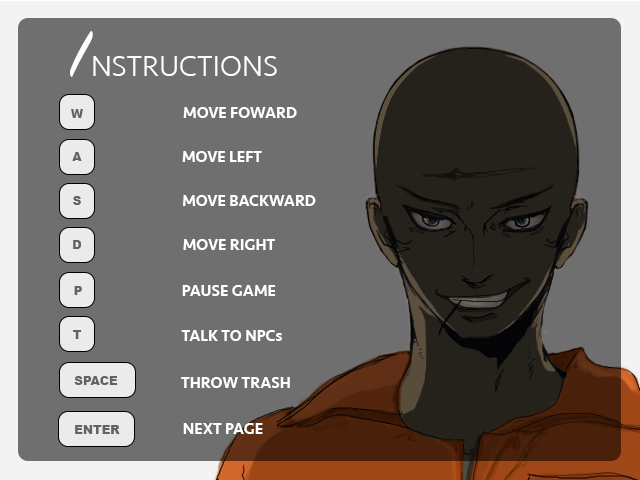
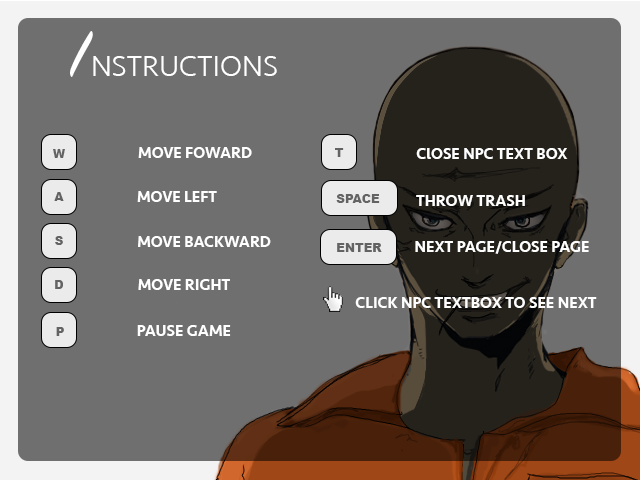
Editted instruction page and READ ME

diff --git a/Trashman/js/entities/PlayerEntity.js b/Trashman/js/entities/PlayerEntity.js
@@ -42,7 +42,7 @@ game.PlayerEntity = me.Entity.extend({
 
  		/*** MUSIC ***/
  		
- 		/*var track = me.audio.getCurrentTrack();
+ 		var track = me.audio.getCurrentTrack();
  		var name = me.game.currentLevel.name;
  		
  		if(name == "headquarter" || name == "headquartera" || name == "headquarterb" || name == "headquarterc"){
@@ -51,17 +51,17 @@ game.PlayerEntity = me.Entity.extend({
  			me.audio.playTrack("hq", true);
  		}
  		else if (name == "tocity1" || name == "todesert1" || name == "todesert2"
- 				|| name == "toantar1" || name == "toantar1b" || name == "tocity1b" || name == "todesert1b" || name == "todesert2b"){
+ 				|| name == "toantar1" ){
  			if (track == "forest") return;
  			me.audio.stopTrack();
  			me.audio.playTrack("forest", true);
  		}
- 		else if(name == "tocity2" || name == "tocity3" || name == "tocity2b" || name == "tocity3b"){
+ 		else if(name == "tocity2" || name == "tocity3" ){
  			if(track == "tocity") return;
  			me.audio.stopTrack();
  			me.audio.playTrack("tocity", true);
  		}
- 		else if(name == "city" || name == "cityb" || name == "cityPuzzle1"){
+ 		else if(name == "city"){
  			if(track == "city") return;
  			me.audio.stopTrack();
  			me.audio.playTrack("city", true);
@@ -71,7 +71,7 @@ game.PlayerEntity = me.Entity.extend({
  			me.audio.stopTrack();
  			me.audio.playTrack("ice", true);
  		}
- 		else if (name == "antarlevel1" || name == "antarlevel2"){
+ 		else if (name == "antarlevel1" || name == "antarlevel2" || name == "antarlevel3"){
  			if(track == "icelevel") return;
 			me.audio.stopTrack();
  			me.audio.playTrack("icelevel", true);
@@ -80,7 +80,7 @@ game.PlayerEntity = me.Entity.extend({
  			if(track == "desert") return;
  			me.audio.stopTrack();
  			me.audio.playTrack("desert", true);
- 		}*/
+ 		}
  		
     },
 

diff --git a/Trashman/js/screens/title.js b/Trashman/js/screens/title.js
@@ -15,9 +15,9 @@ game.TitleScreen = me.ScreenObject.extend({
       			me.state.change(me.state.GAMEOVER);
 	        }
     	});
-/*	 if(me.audio.getCurrentTrack() == "title") return;
+	 if(me.audio.getCurrentTrack() == "title") return;
  	 me.audio.stopTrack();
- 	 me.audio.playTrack("title", true);*/
+ 	 me.audio.playTrack("title", true);
   },
  
   /**    
@@ -68,8 +68,8 @@ game.instrucButton = me.GUI_Object.extend({
 	init:function (x, y){
     	var settings = {};
       	settings.image = me.loader.getImage('instruc');
-      	settings.spritewidth = 75;
-      	settings.spriteheight = 15;
+      	settings.spritewidth = 125;
+      	settings.spriteheight = 20;
       	// super constructor
 	    this._super(me.GUI_Object, "init", [x, y, settings]);
       	// define the object z order

diff --git a/Trashman/js/resources.js b/Trashman/js/resources.js
@@ -152,7 +152,7 @@ game.resources = [
     {name: "begin3", type: "image", src: "data/intro/intro3.png"},
     
      //BGM
-    /*
+    
 	//{name: "title", type: "audio", src: "data/bgm/"},
 	{name: "hq2", type: "audio", src: "data/bgm/"},
 	{name: "hq", type: "audio", src: "data/bgm/"},
@@ -163,7 +163,7 @@ game.resources = [
 	//{name: "forest", type: "audio", src: "data/bgm/"},
 	{name: "icelevel", type: "audio", src: "data/bgm/"},
 	
-	 * SFX
+	
 	 
-	{name: "hit", type: "audio", src: "data/sfx/"},*/
+	{name: "hit", type: "audio", src: "data/sfx/"},
 ];

diff --git a/README.md b/README.md
@@ -1,21 +1,39 @@
 # Trashman-Begins
 **By the MisoHungry team**
 
-###Walkthrough:
+
+
+This game will be mostly adventure and education genres. Adventure from exploring and educational from talking to NPC’s who give the player actual data collected that has been collected by climate scientist for years. Another theme that is probably a little subtle is the sense of urgency. By including the time mechanic the player will get a sense that he or she has to hurry to achieve the best score. A problem in combating climate change right now is that we are running out of time. If we do not make rapid, progressive change, then time will run out. Mankind is getting closer and closer to the point of no return and by adding the time element to the game, the player will feel that pressure as well. The target audience is for people who know little about climate change but would like to know more. There will be facts that hopefully the player will find interesting and look more into how they can alter their behaviour and help make change in the real world.
+
+
+
+
+###Cheat sheet:
 ######KEYS: 
 	1. WASD to move around
 	2. SPACE BAR to attack/punch
-	3. P to pause
-	4. ESC to unpause
+	3. P to pause	
+	4. T to close NPC chatbox
+	5. CLICK NPC chatbox to go to next chatbox
+	6. ENTER to exit screens/to go next page
 ######MAPS:
-	1. Headquarter
-		Left: City
-		Right: Desert
-		Bottom (little bridge by river): Antarctica
-	2. Desert
-	3. Antarctica
-	4. City - still working
+	Tibbers Town:
+		West: Aohari City
+		East: Gobi Town
+		South: Antarctica Town
+######WALKTHROUGH:	
+1. You starts off at Tibbers Town. Talk to NPC (Alice) and she will tell you to head South to Antarctica Town.
+2. You will travel through two maps before getting to Antarctica. Try to pick up trash and kill off enemies to get more points (trigger better ending). You will meet Miku at Antarctica Town and she will asks you to help her rescuing penguins. Talk to her after each level to get your reward (points) for every penguin you save.
+4. You will then receive a TURBINE BLADE after you're done helping her and return to Tibbers Town. Talk to Alice and you will then asked to head West to Aohari Town.
+5. After traveling through three maps, you will arrive at Aohari City. Talk to Reki and she will asks you to help her destroy the Corporation by meeting her North of Aohary City. You will then have to pass through 3 puzzles to get to the end stage where you destroy a machine by throwing trash at it. Talk to Reki afterward to get your rewards.
+7. You will then return to Tibbers Town and receive your last mission of going East to Gobi Town and talk to Mimi there.
+8. You will travel through three maps before getting to Gobi Town. Make sure to explore the map and talk to Ariel to get your Turbine Blades. When you arrived at Gobi Town, Mimi will welcome you and tell you to head North to fix the broken Turbine. 
+9. After fixing the Turbine, you will be sent back to headquarter and that is where your ending will trigger based on your performance.
 
+######ENDINGS:
+1. Best ending: You helped saving the world.
+2. Okay ending: You did your job.. nothing really changed though.
+3. Bad ending: You did not help anything and the world is in bad shape... probably going to be destroyed. 
 
 
 
@@ -38,5 +56,3 @@ This will start a local server to host the project files on a web browser. Now o
 
 	sudo npm install grunt
 	
-###Notes
-* Remember to update the resources.js file when you're adding new files, changing file names.

diff --git a/Trashman/README.md b/Trashman/README.md
@@ -1,21 +1,39 @@
 # Trashman-Begins
 **By the MisoHungry team**
 
-###Walkthrough:
+
+
+This game will be mostly adventure and education genres. Adventure from exploring and educational from talking to NPC’s who give the player actual data collected that has been collected by climate scientist for years. Another theme that is probably a little subtle is the sense of urgency. By including the time mechanic the player will get a sense that he or she has to hurry to achieve the best score. A problem in combating climate change right now is that we are running out of time. If we do not make rapid, progressive change, then time will run out. Mankind is getting closer and closer to the point of no return and by adding the time element to the game, the player will feel that pressure as well. The target audience is for people who know little about climate change but would like to know more. There will be facts that hopefully the player will find interesting and look more into how they can alter their behaviour and help make change in the real world.
+
+
+
+
+###Cheat sheet:
 ######KEYS: 
 	1. WASD to move around
 	2. SPACE BAR to attack/punch
-	3. P to pause
-	4. ESC to unpause
+	3. P to pause	
+	4. T to close NPC chatbox
+	5. CLICK NPC chatbox to go to next chatbox
+	6. ENTER to exit screens/to go next page
 ######MAPS:
-	1. Headquarter
-		Left: City
-		Right: Desert
-		Bottom (little bridge by river): Antarctica
-	2. Desert
-	3. Antarctica
-	4. City - still working
+	Tibbers Town:
+		West: Aohari City
+		East: Gobi Town
+		South: Antarctica Town
+######WALKTHROUGH:	
+1. You starts off at Tibbers Town. Talk to NPC (Alice) and she will tell you to head South to Antarctica Town.
+2. You will travel through two maps before getting to Antarctica. Try to pick up trash and kill off enemies to get more points (trigger better ending). You will meet Miku at Antarctica Town and she will asks you to help her rescuing penguins. Talk to her after each level to get your reward (points) for every penguin you save.
+4. You will then receive a TURBINE BLADE after you're done helping her and return to Tibbers Town. Talk to Alice and you will then asked to head West to Aohari Town.
+5. After traveling through three maps, you will arrive at Aohari City. Talk to Reki and she will asks you to help her destroy the Corporation by meeting her North of Aohary City. You will then have to pass through 3 puzzles to get to the end stage where you destroy a machine by throwing trash at it. Talk to Reki afterward to get your rewards.
+7. You will then return to Tibbers Town and receive your last mission of going East to Gobi Town and talk to Mimi there.
+8. You will travel through three maps before getting to Gobi Town. Make sure to explore the map and talk to Ariel to get your Turbine Blades. When you arrived at Gobi Town, Mimi will welcome you and tell you to head North to fix the broken Turbine. 
+9. After fixing the Turbine, you will be sent back to headquarter and that is where your ending will trigger based on your performance.
 
+######ENDINGS:
+1. Best ending: You helped saving the world.
+2. Okay ending: You did your job.. nothing really changed though.
+3. Bad ending: You did not help anything and the world is in bad shape... probably going to be destroyed. 
 
 
 
@@ -38,5 +56,3 @@ This will start a local server to host the project files on a web browser. Now o
 
 	sudo npm install grunt
 	
-###Notes
-* Remember to update the resources.js file when you're adding new files, changing file names.
